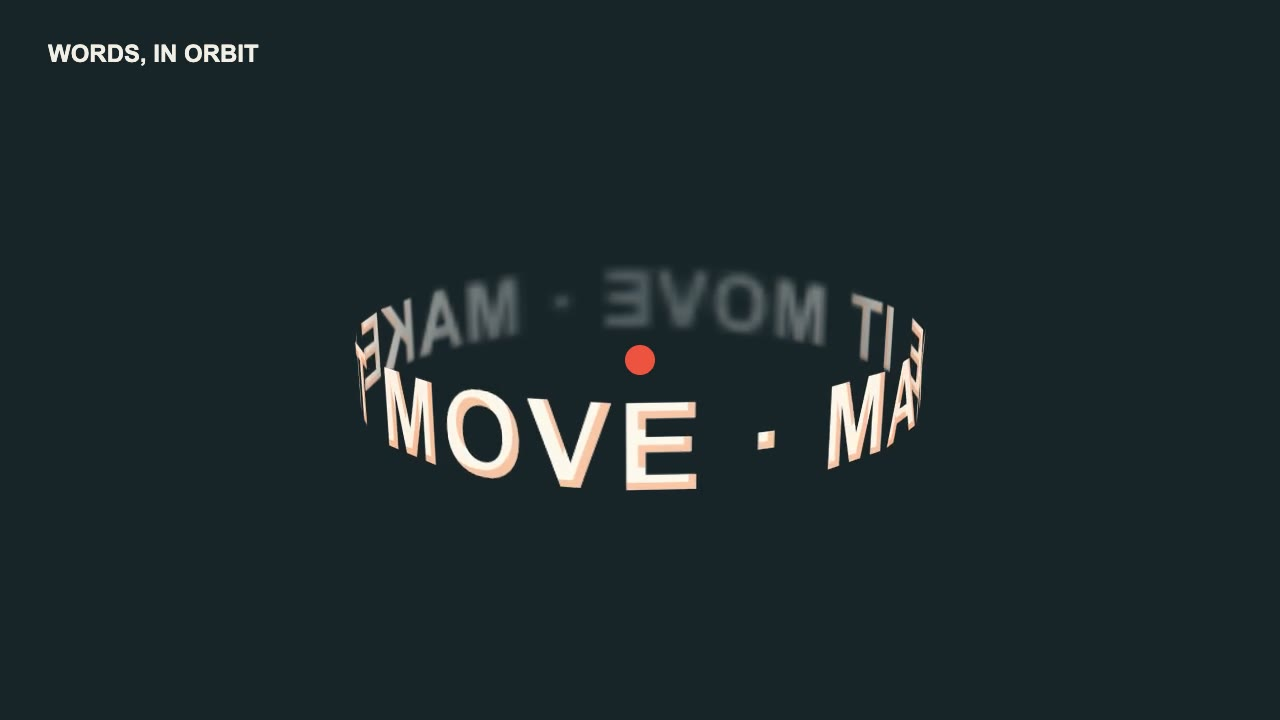
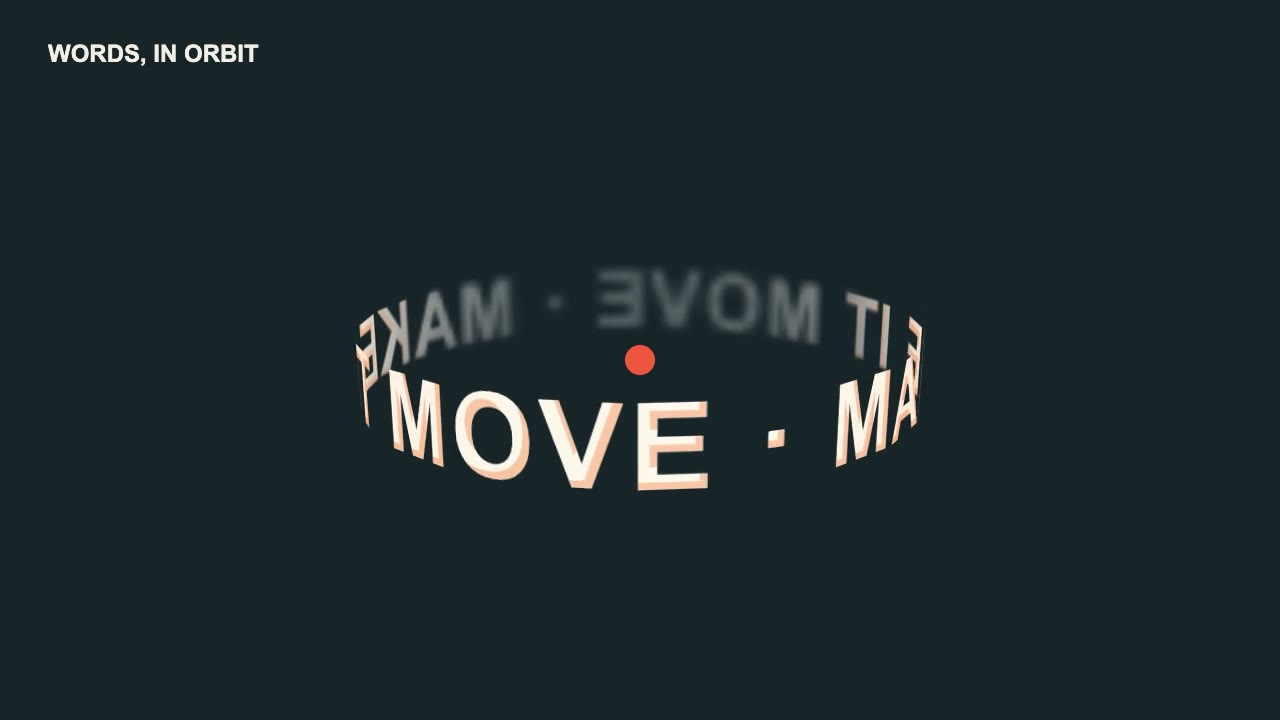
Take each poster at the exact frame its page names
Delivered MP4s carry no edit list, so their first frame is stamped 0.0667 s
while the sound starts at 0, and deliver.py's `-ss` seek landed two frames
before window.__poster. The poster is now chosen by frame index
(select=eq(n,round(t x fps))), and `deliver.py --poster film.mp4 t out.jpg`
takes it again from a delivered film without encoding.

tests/poster.test.cjs builds a film with the same layout (B-frames, AAC from
0, no edit list) and checks the old seek lands on frame 28 for 1 s while the
new path returns frame 30. The posters of 31 published films are taken again
from their existing MP4s (no film was rendered): most move by two frames;
the bear, the city and the trailer stamp now show the frame their pages ask
for. optical.jpg is unchanged in content because the page's compensation
(foil 1.26 s) is removed in the next commit.

Changed region(s): [[0.2812, 0.3667, 0.5625, 0.7028], [0.5, 0.3667, 0.7188, 0.6417]]

diff --git a/video/deliver.py b/video/deliver.py
@@ -1,6 +1,7 @@
 """Turn a silent lossless master and a mix into the two files people see.
 
     python3 deliver.py master.mkv mix.wav out_dir name [poster_seconds]
+    python3 deliver.py --poster film.mp4 seconds out.jpg     (only the poster, from a delivered film)
 
   out_dir/name_hq.mp4  high quality for upload: H.264 CRF 18, peaks held under 25 Mbps (Meta's Reels limit)
   out_dir/name.mp4     for the web: the high-quality file if it fits in CAP bytes, else two-pass to CAP
@@ -265,6 +266,22 @@ def master_for_aac(mix, work):
     raise SystemExit(f"the AAC true peak stays above {MAX_TP} dBTP: {tp:.1f} dBTP from a {tp_target:.1f} dBTP target")
 
 
+def frame_rate(info):
+    """Frames per second of the first video stream in an ffprobe result."""
+    return float(Fraction(next(s for s in info["streams"] if s["codec_type"] == "video")["r_frame_rate"]))
+
+
+def poster_frame(video, seconds, fps, out):
+    """Write the frame the film shows at `seconds`, frame round(seconds x fps), as a JPEG.
+
+    The delivered files carry no edit list (see align_audio), so their first frame is stamped 0.0667 s
+    at 30 fps, and seeking with -ss to a film time landed two frames early. The frame is chosen by its
+    index in display order instead, which does not depend on the container's timestamps."""
+    n = round(seconds * fps)
+    run("ffmpeg", "-y", "-loglevel", "error", "-i", video, "-map", "0:v:0", "-vf", f"select=eq(n\\,{n})",
+        "-fps_mode", "passthrough", "-frames:v", "1", "-q:v", "3", out)
+
+
 def encode_hq(master, audio, out):
     # VBV maxrate alone does not cap a one-second burst. The former 40 Mbit buffer
     # allowed particle/shader cuts to exceed the 25 Mbps delivery check. Keep the
@@ -298,7 +315,8 @@ def main():
     master, mix, out_dir, name = sys.argv[1:5]
     work = tempfile.mkdtemp(prefix=f".deliver-{name}-", dir=out_dir)
     try:
-        dur = float(probe(master)["format"]["duration"])
+        info = probe(master)
+        dur, fps = float(info["format"]["duration"]), frame_rate(info)
         poster_at = sys.argv[5] if len(sys.argv) > 5 else f"{dur / 3:.2f}"
         try:
             poster_seconds = float(poster_at)
@@ -320,7 +338,7 @@ def main():
             kbps = encode_preview(master, audio, preview, work, dur)
             print(f"web video {kbps}k two-pass")
         check(preview, master, cap=CAP, max_bps=HQ_MAX_BPS, audio=audio)
-        run("ffmpeg", "-y", "-loglevel", "error", "-ss", poster_at, "-i", preview, "-frames:v", "1", "-q:v", "3", poster)
+        poster_frame(preview, poster_seconds, fps, poster)
         # FFmpeg can exit successfully without producing a frame near EOF.
         if not os.path.isfile(poster) or os.path.getsize(poster) == 0:
             raise SystemExit("poster extraction produced no image")
@@ -332,5 +350,25 @@ def main():
         shutil.rmtree(work, ignore_errors=True)
 
 
+def poster_only(video, seconds, out):
+    """Take the poster again from a delivered film, as main() does, without encoding anything."""
+    info = probe(video)
+    seconds = float(seconds)
+    if not math.isfinite(seconds) or not 0 <= seconds < float(info["format"]["duration"]):
+        raise SystemExit("poster_seconds must be a finite number within the film")
+    partial = os.path.join(os.path.dirname(os.path.abspath(out)), "." + os.path.basename(out) + ".partial.jpg")
+    try:
+        poster_frame(video, seconds, frame_rate(info), partial)
+        if not os.path.isfile(partial) or os.path.getsize(partial) == 0:
+            raise SystemExit("poster extraction produced no image")
+        os.replace(partial, out)
+    finally:
+        if os.path.exists(partial):
+            os.remove(partial)
+
+
 if __name__ == "__main__":
-    main()
+    if sys.argv[1:2] == ["--poster"]:
+        poster_only(*sys.argv[2:5])
+    else:
+        main()
